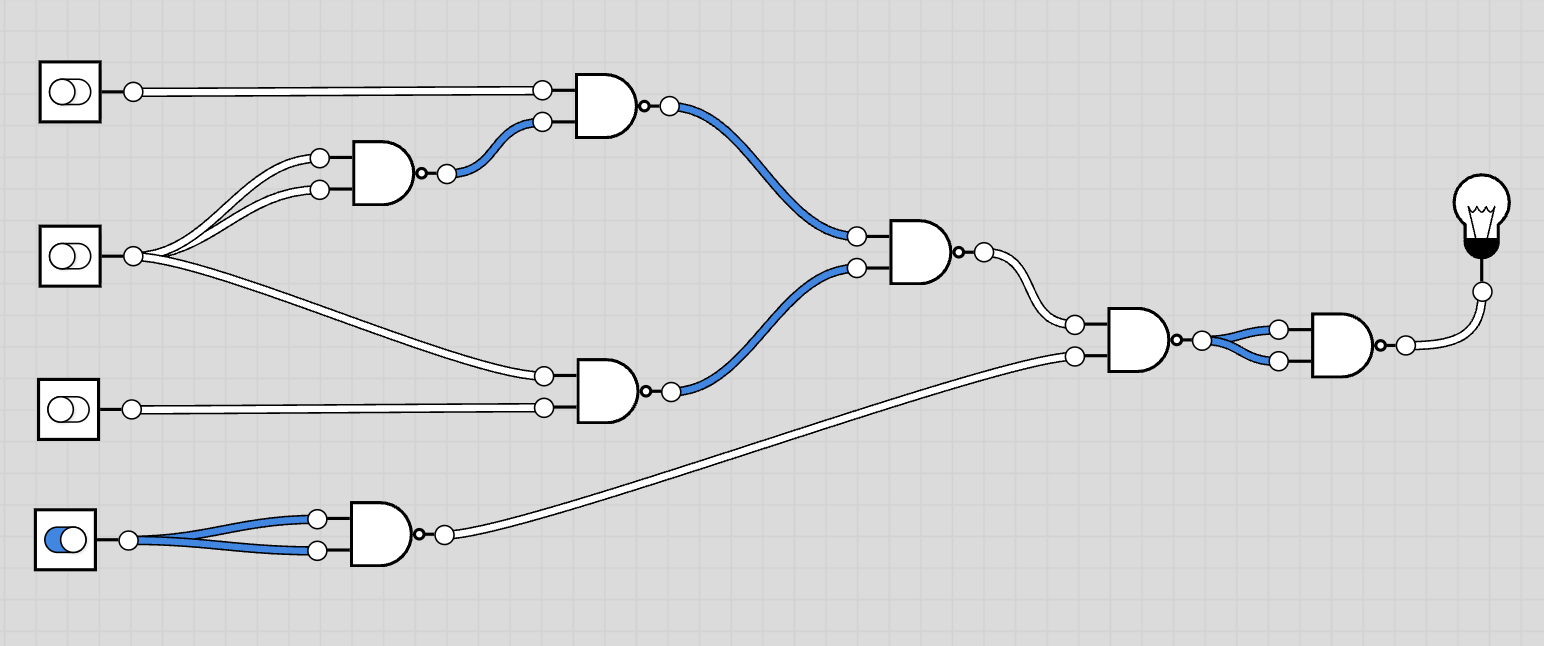
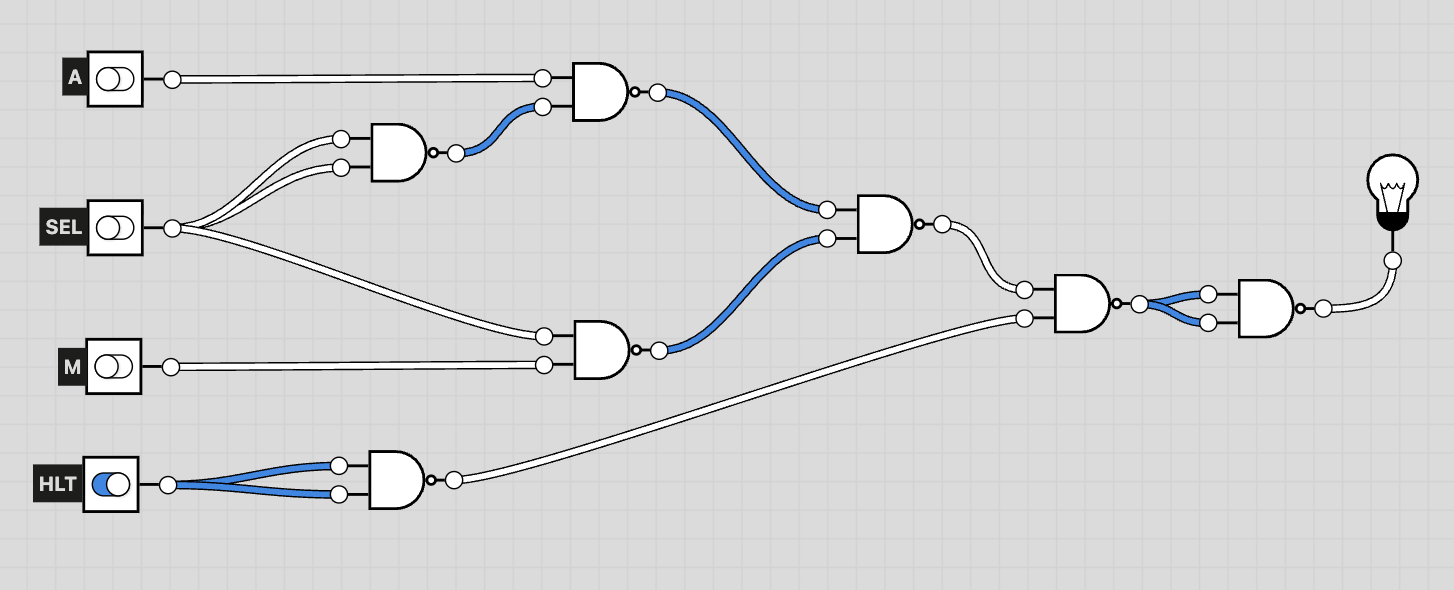
doc: Adjusts the clock logic figures

diff --git a/doc/bitq_clk/README.md b/doc/bitq_clk/README.md
@@ -99,6 +99,8 @@ by connecting to ground.*
 
 ### Clock logic
 
+#### Build with NAND logic
+
 #### Astable mode selected
 
 ![CLOCK-LOGIC-ASTABLE](https://github.com/PanBabinicz/bitq/blob/master/doc/screenshots/clock_logic_astable.png)
@@ -109,9 +111,9 @@ by connecting to ground.*
 ![CLOCK-LOGIC-MONOSTABLE](https://github.com/PanBabinicz/bitq/blob/master/doc/screenshots/clock_logic_monostable.png)
 ![CLOCK-LOGIC-MONOSTABLE-GIF](https://github.com/PanBabinicz/bitq/blob/master/doc/screenshots/clock_logic_monostable_gif.gif)
 
-#### Build with NAND logic
+#### Halt mode selected
 
-![CLOCK-LOGIC-NAND](https://github.com/PanBabinicz/bitq/blob/master/doc/screenshots/clock_logic_halt.png)
+![CLOCK-LOGIC-HALT](https://github.com/PanBabinicz/bitq/blob/master/doc/screenshots/clock_logic_halt.png)
 
 ## Resources
 
